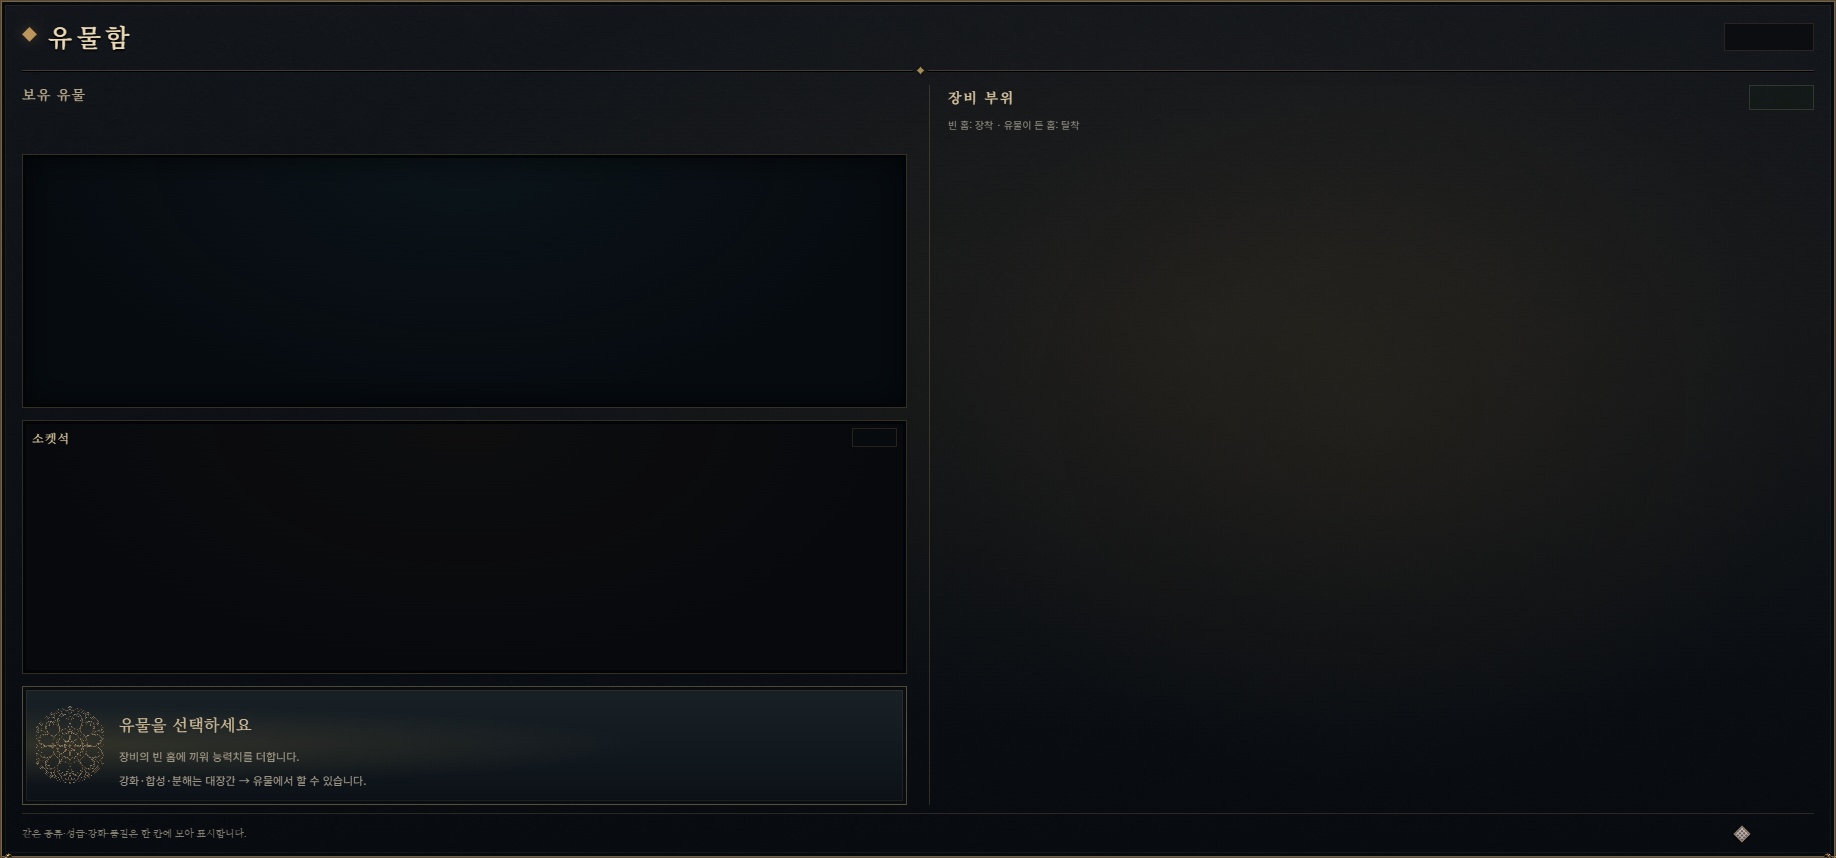
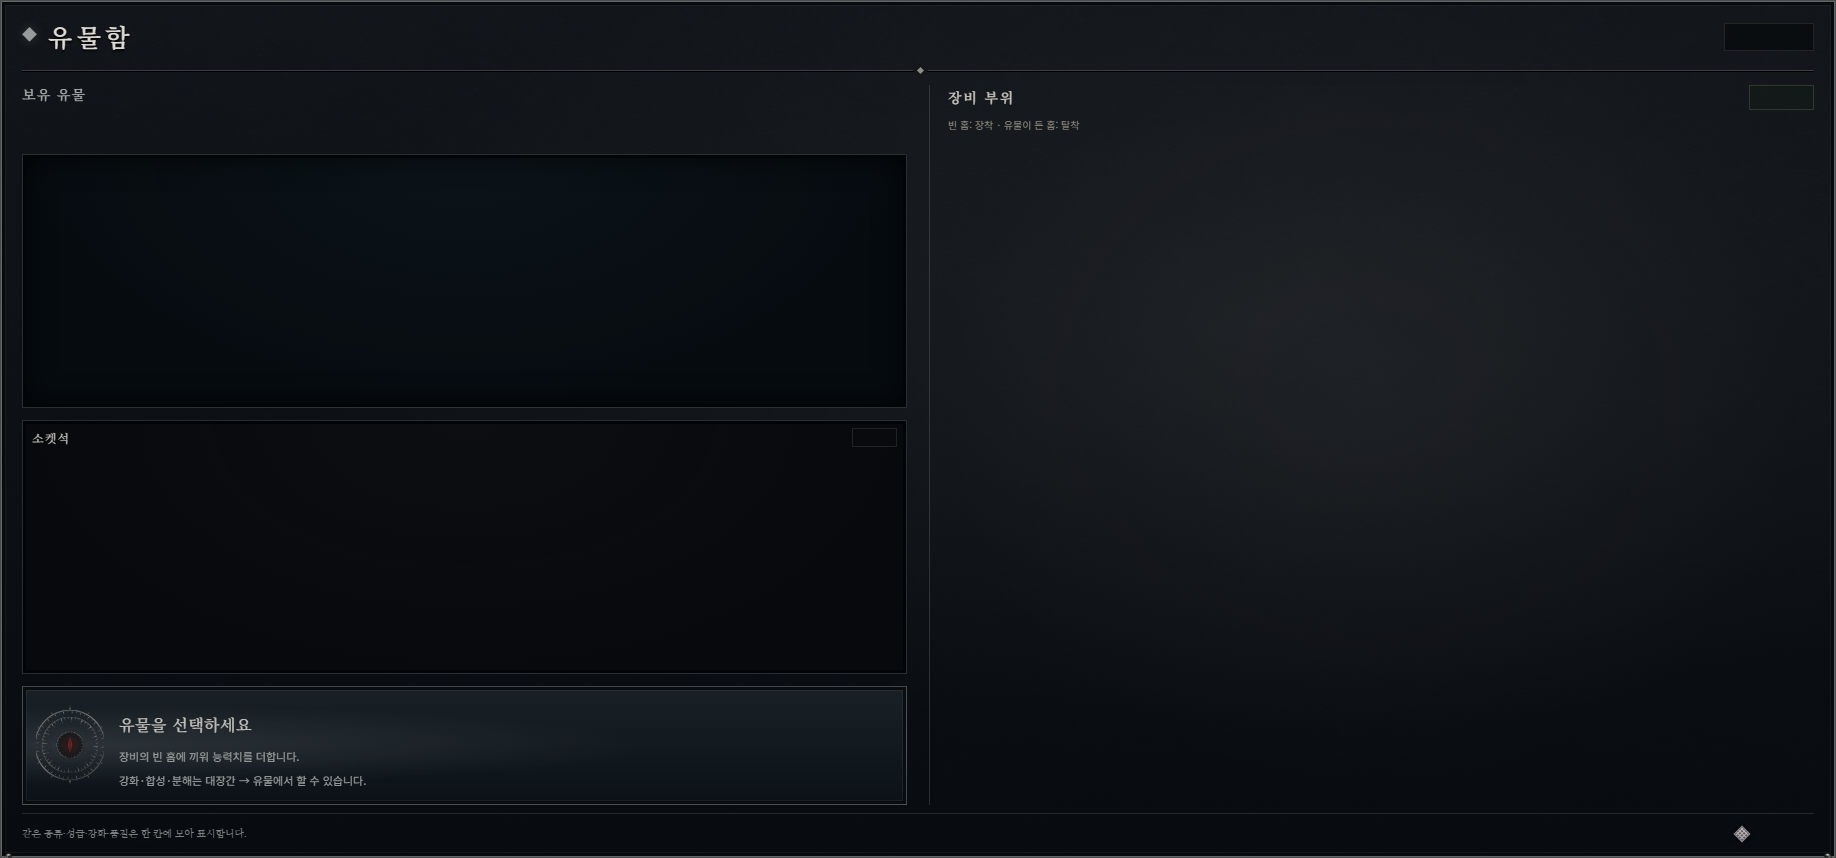
유물판을 현행 웹 원화로 갱신하고 전수대조 범위를 보완

diff --git a/docs/engine/UNITY_UI_ASSETS_20261030.md b/docs/engine/UNITY_UI_ASSETS_20261030.md
@@ -116,3 +116,5 @@
 | 검수 | art fixture에서 실제 키 릴리즈 관측을 호출해 입력 fence로 창이 비활성 표시되는 오류 수정. 실제 GPU HP 색 원본 대비 최대오차3/255 검사 추가 |
 
 위 후속은 후보8 빌드·실제 화면·M1 확인 전이다. 이전 후보7 수치와 혼용하지 않는다.
+
+유물 부화면의 정적판도 현행 웹에서 기존 static 숨김 CSS로 다시 추출했다(1836×858, sha256 098b5c227460a0f7d1bfec62cce9feea4cdcb14db4c69dec69987f6e18d2835e). 구형 금색 제목·문양을 현행 은빛 제목·눈 문양으로 교체하며 미이식 유물·소켓석 데이터는 유지한다. 전수대조 도구는 ui_·ui_refs·ui_icons SVG 및 원화출처 동적 경로까지 조사한다.
